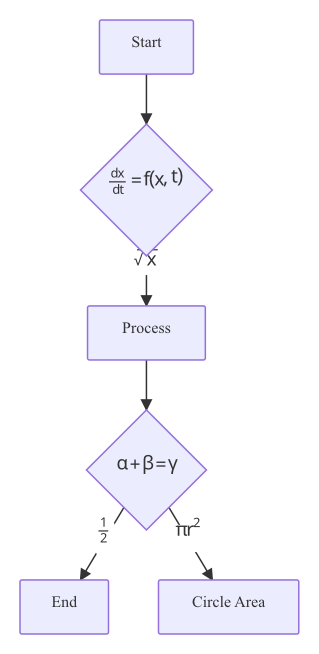
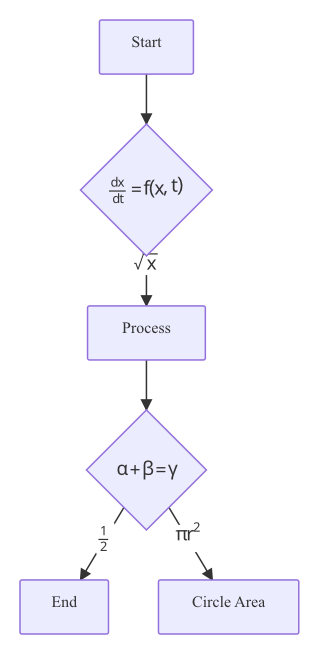
fix(math): join vinculum to √ tip and centre math-only labels
Two visual fixes:

1. The \sqrt vinculum was starting at mtex's op.X1 (= √'s advance),
   leaving a gap between the radical symbol's italic right tip and the
   bar. Extend the two-pass renderer to also identify the glyph
   immediately before each rect and pull the bar's left edge out to
   that glyph's visual right edge via GlyphBounds. The bar now joins
   the √ tip cleanly.

2. Equation-bottom-at-text-baseline pushed pure-math node labels
   (flowchart diamonds with $$\frac{...}{...}$$ only) into the upper
   half of their container, leaving the lower half empty. Detect
   whether a line has any non-empty text segments: if it does
   (\"Result is α\"), keep the baseline alignment so math shares the
   text's baseline; if it's math-only, centre the math's bbox on ly
   the way every other label is centred.

diff --git a/pkg/renderer/math/math.go b/pkg/renderer/math/math.go
@@ -176,32 +176,64 @@ func (r *svgRenderer) Render(w, h, dpi float64, cnv *drawtex.Canvas) error {
 		}
 		return g.X*trackingScale + float64(bounds.Max.X)/64
 	}
-	// Second pass — emit. For each RectOp, find the rightmost glyph
-	// whose anchor sits inside (X1, X2) and set the bar to end just
-	// past that glyph's actual right edge.
-	for i, op := range ops {
+	// glyphLeftAt returns the *visual* left edge of a glyph (font
+	// bbox min X, including italic side-bearings). Used to place a
+	// \sqrt vinculum so it starts at the right edge of the √ symbol
+	// rather than at its advance.
+	glyphLeftAt := func(g drawtex.GlyphOp) float64 {
+		if g.Glyph.Font == nil {
+			return g.X * trackingScale
+		}
+		ppem := fixed.I(int(g.Glyph.Size * dpi / 72))
+		bounds, _, err := g.Glyph.Font.GlyphBounds(&buf, g.Glyph.Num, ppem, 0)
+		if err != nil {
+			return g.X * trackingScale
+		}
+		return g.X*trackingScale + float64(bounds.Min.X)/64
+	}
+	// Second pass — emit. For each RectOp, locate:
+	//   * the glyph just before the rect (the √ for vinculum bars) and
+	//     start the bar at that glyph's visual right edge, so the bar
+	//     joins the radical sign instead of starting in front of it.
+	//   * the rightmost glyph whose anchor sits inside (X1, X2) and set
+	//     the bar end just past that glyph's actual right edge.
+	for _, op := range ops {
 		switch o := op.(type) {
 		case drawtex.GlyphOp:
 			r.glyphYs = append(r.glyphYs, o.Y)
 			r.renderGlyph(&buf, o)
 		case drawtex.RectOp:
-			// Locate the rightmost glyph extent covered by this rect.
-			rightEdge := o.X1 // fallback: just the start
+			leftEdge := o.X1
+			rightEdge := o.X1
 			for _, op2 := range ops {
 				g, ok := op2.(drawtex.GlyphOp)
 				if !ok {
 					continue
 				}
+				// The glyph immediately before the rect (its X+advance
+				// ≈ rect X1, within a small tolerance) is the one the
+				// bar is anchored to.
+				if g.X < o.X1 && g.X+float64(g.Glyph.Metrics.Advance) >= o.X1-0.01 {
+					if e := glyphRightAt(g); e > leftEdge {
+						leftEdge = e
+					}
+					// Also pull the bar's left edge in by the italic
+					// side-bearing so it joins the visible √ tip.
+					if l := glyphLeftAt(g); l < o.X1 && g.X+float64(g.Glyph.Metrics.Advance) > l {
+						// the glyph visual end:
+						if e := glyphRightAt(g); e > leftEdge {
+							leftEdge = e
+						}
+					}
+				}
 				if g.X+0.01 < o.X1 || g.X > o.X2 {
 					continue
 				}
-				e := glyphRightAt(g)
-				if e > rightEdge {
+				if e := glyphRightAt(g); e > rightEdge {
 					rightEdge = e
 				}
 			}
-			r.renderRectAt(o, rightEdge)
-			_ = i
+			r.renderRectAt(o, leftEdge, rightEdge)
 		}
 	}
 	return nil
@@ -279,19 +311,22 @@ func (r *svgRenderer) renderGlyph(buf *sfnt.Buffer, op drawtex.GlyphOp) {
 	}
 }
 
-// renderRectAt sizes a bar/vinculum to span from its mtex X1 to a
-// rightEdge derived from the actual radicand glyph extents. For \frac
-// bars the start glyphs sit at op.X=0 (so rightEdge==o.X1 from the
-// fallback) and the bar keeps mtex's natural width; for \sqrt vinculum
-// the rightEdge has been computed from the radicand and the bar tracks
-// it properly even when italic glyphs extend past their advance.
-func (r *svgRenderer) renderRectAt(op drawtex.RectOp, rightEdge float64) {
+// renderRectAt sizes a bar/vinculum to span from a leftEdge (the visual
+// right side of the preceding glyph — e.g. √'s tip — or the mtex X1
+// if no preceding glyph applies) to a rightEdge derived from the actual
+// radicand glyph extents. For \frac bars the start glyphs sit at op.X=0
+// (so both edges fall through to the mtex values) and the bar keeps its
+// natural width.
+func (r *svgRenderer) renderRectAt(op drawtex.RectOp, leftEdge, rightEdge float64) {
+	if leftEdge < op.X1 {
+		leftEdge = op.X1
+	}
 	naturalRight := op.X2
 	if rightEdge < naturalRight {
 		rightEdge = naturalRight
 	}
-	x := op.X1 - barOverhang
-	w := rightEdge - op.X1 + 2*barOverhang
+	x := leftEdge - barOverhang
+	w := rightEdge - leftEdge + 2*barOverhang
 	y := op.Y1
 	h := op.Y2 - op.Y1
 	r.noteY(y)
@@ -299,7 +334,14 @@ func (r *svgRenderer) renderRectAt(op drawtex.RectOp, rightEdge float64) {
 	fmt.Fprintf(&r.sb, `<rect x="%.3f" y="%.3f" width="%.3f" height="%.3f"/>`, x, y, w, h)
 }
 
+// renderRect is the legacy single-pass entrypoint, kept only because
+// the (currently dead) handler in the original implementation referred
+// to it. The two-pass Render path above uses renderRectAt instead.
 func (r *svgRenderer) renderRect(op drawtex.RectOp) {
+	r.renderRectAt(op, op.X1, op.X2)
+}
+
+func (r *svgRenderer) renderRectLegacy(op drawtex.RectOp) {
 	// Bars come in two flavours that need different treatment:
 	//
 	//   - \frac bar: starts at op.X1≈0, sits over numerator/denominator

diff --git a/pkg/renderer/text/render.go b/pkg/renderer/text/render.go
@@ -121,23 +121,36 @@ func LabelElements(label string, cx, cy, fontSize float64, anchor, dominant, tex
 					default:
 						mx = xOff + seg.Width/2 - res.Width/2
 					}
-					// Vertical alignment depends on dominant-baseline:
-					// the math's BOTTOM (its overall bbox bottom) aligns
-					// with the surrounding text's letter baseline, so an
-					// inline expression like "Result is α" sits on the
-					// same line as the text. For dominant="central" the
-					// text baseline is ~0.25 em below ly; for "auto" the
-					// baseline is at ly directly.
-					var textBaselineY float64
-					switch dominant {
-					case svgutil.BaselineAuto, "", "alphabetic":
-						textBaselineY = ly
-					case "hanging", "text-before-edge":
-						textBaselineY = ly + fontSize
-					default: // central, middle
-						textBaselineY = ly + fontSize*0.25
+					// Vertical placement:
+					//   * mixed text + math: align math's BOTTOM (bbox
+					//     bottom) to the surrounding text's letter
+					//     baseline so an inline expression like
+					//     "Result is α" shares a line with the text.
+					//   * math-only line: centre the math's bbox on ly
+					//     so node labels with no surrounding text aren't
+					//     pushed into the top of their containing shape.
+					lineHasText := false
+					for _, s := range segs {
+						if s.Math == "" && strings.TrimSpace(s.Text) != "" {
+							lineHasText = true
+							break
+						}
 					}
-					my := textBaselineY - res.Height
+					var my float64
+					if lineHasText {
+						var textBaselineY float64
+						switch dominant {
+						case svgutil.BaselineAuto, "", "alphabetic":
+							textBaselineY = ly
+						case "hanging", "text-before-edge":
+							textBaselineY = ly + fontSize
+						default: // central, middle
+							textBaselineY = ly + fontSize*0.25
+						}
+						my = textBaselineY - res.Height
+					} else {
+						my = ly - res.Height/2
+					}
 					g := &svgutil.Group{
 						Transform: fmt.Sprintf("translate(%.2f,%.2f) scale(%.3f)", mx, my, scale),
 						Children:  res.Elements,
